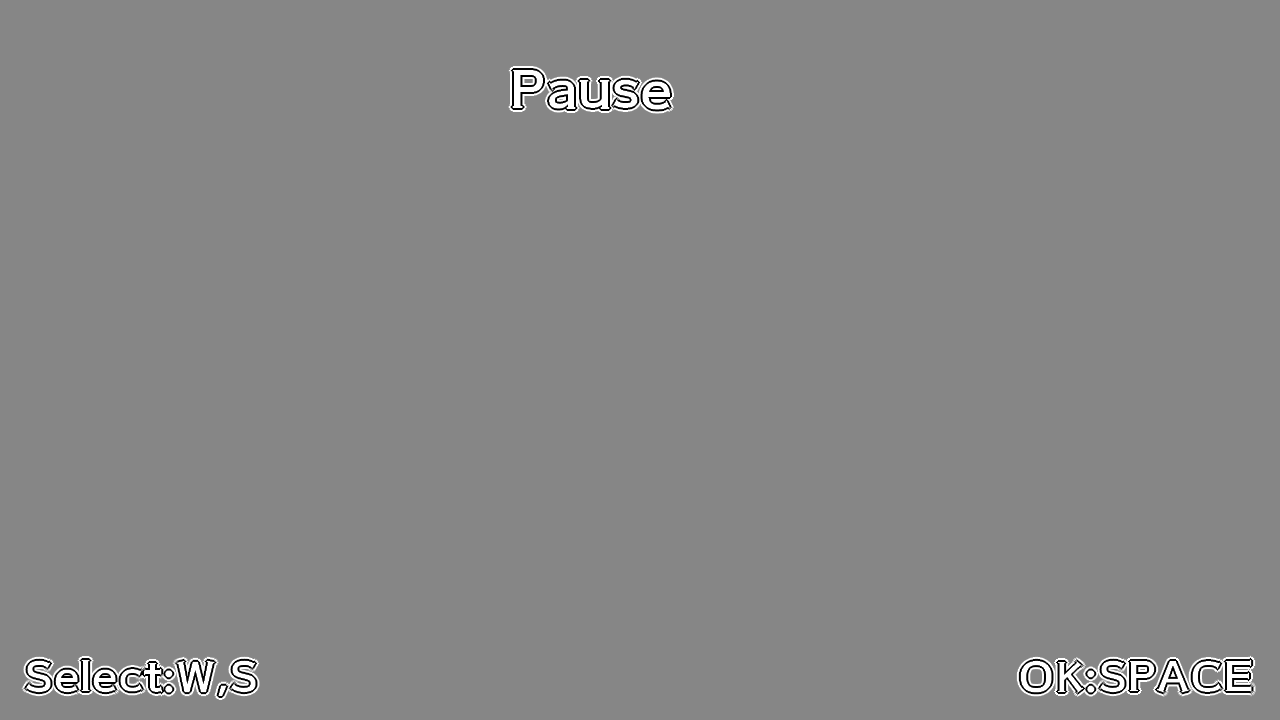
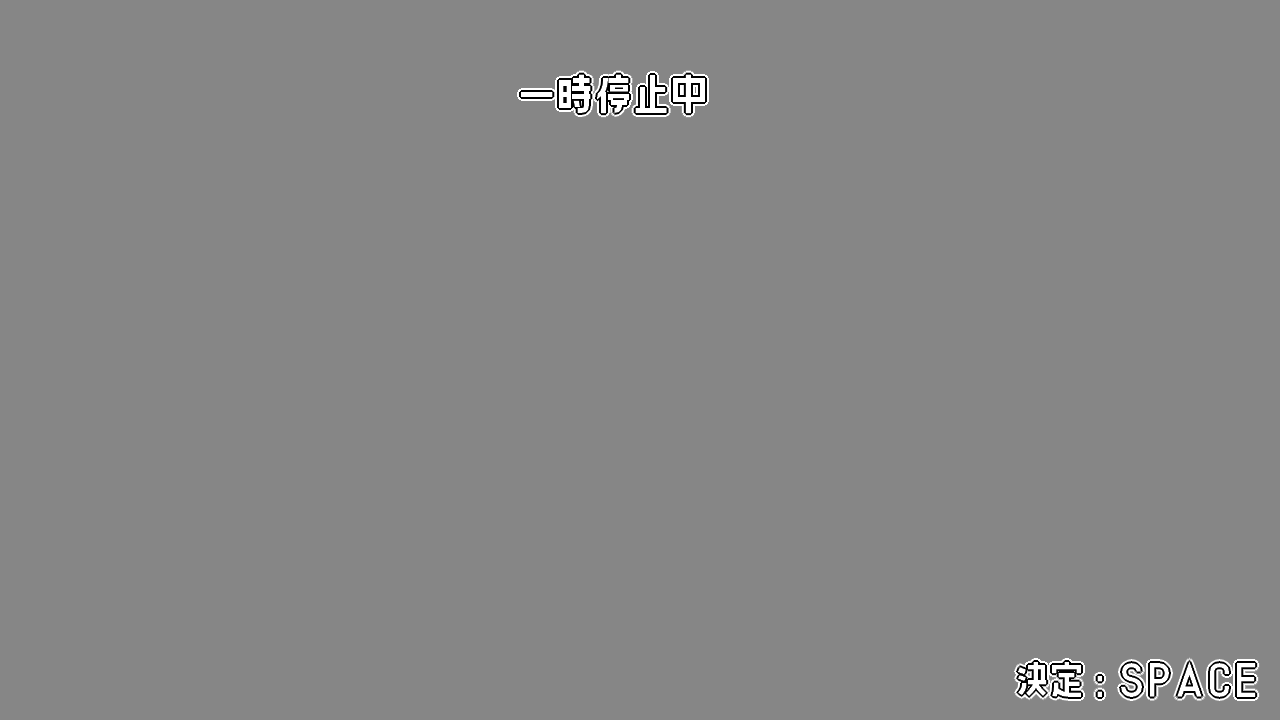
ポーズ画面変更

Changed region(s): [[0.7812, 0.8861, 1.0, 0.9778], [0.375, 0.0917, 0.5625, 0.1833], [0.0, 0.9167, 0.2188, 0.9778]]

diff --git a/DirectXGame/Engine/Rendering/UI.cpp b/DirectXGame/Engine/Rendering/UI.cpp
@@ -34,10 +34,37 @@ void UI::Initialize(::Player* player) {
 	ctrlSprite_ = Sprite::Create(textureHandle_, {5.0f, 130.0f});
 	textureHandle_ = TextureManager::Load("UI/pause.png");
 	pauseSprite_ = Sprite::Create(textureHandle_, {0.0f, 0.0f});
-	textureHandle_ = TextureManager::Load("UI/selectBack.png");
-	selectSprite_[0] = Sprite::Create(textureHandle_, {0.0f, 0.0f});
 	textureHandle_ = TextureManager::Load("UI/selectRestart.png");
-	selectSprite_[1] = Sprite::Create(textureHandle_, {0.0f, 0.0f});
+	selectSprite_[0] = Sprite::Create(textureHandle_, {0.0f, 0.0f}, {1.0f, 1.0f, 1.0f, 1.0f}, {0.5f,0.5f});
+	textureHandle_ = TextureManager::Load("UI/selectToTitle.png");
+	selectSprite_[1] = Sprite::Create(textureHandle_, {0.0f, 0.0f}, {1.0f, 1.0f, 1.0f, 1.0f}, {0.5f, 0.5f});
+	textureHandle_ = TextureManager::Load("UI/cursor1.png");
+	selectCursorSprite_[0] = Sprite::Create(textureHandle_, {0.0f, 0.0f}, {1.0f, 1.0f, 1.0f, 1.0f}, {0.5f, 0.5f});
+	textureHandle_ = TextureManager::Load("UI/cursor2.png");
+	selectCursorSprite_[1] = Sprite::Create(textureHandle_, {0.0f, 0.0f}, {1.0f, 1.0f, 1.0f, 1.0f}, {0.5f, 0.5f});
+	textureHandle_ = TextureManager::Load("UI/checkFrame.png");
+	checkFrameSprite_ = Sprite::Create(textureHandle_, {0.0f, 0.0f}, {1.0f, 1.0f, 1.0f, 1.0f}, {0.5f, 0.5f});
+	textureHandle_ = TextureManager::Load("UI/CheckSelectYes.png");
+	checkSelectSprite_[0] = Sprite::Create(textureHandle_, {0.0f, 0.0f}, {1.0f, 1.0f, 1.0f, 1.0f}, {0.5f, 0.5f});
+	textureHandle_ = TextureManager::Load("UI/CheckSelectNo.png");
+	checkSelectSprite_[1] = Sprite::Create(textureHandle_, {0.0f, 0.0f}, {1.0f, 1.0f, 1.0f, 1.0f}, {0.5f, 0.5f});
+	textureHandle_ = TextureManager::Load("UI/checkCursor1.png");
+	checkCursorSprite_[0] = Sprite::Create(textureHandle_, {0.0f, 0.0f}, {1.0f, 1.0f, 1.0f, 1.0f}, {0.5f, 0.5f});
+	textureHandle_ = TextureManager::Load("UI/checkCursor2.png");
+	checkCursorSprite_[1] = Sprite::Create(textureHandle_, {0.0f, 0.0f}, {1.0f, 1.0f, 1.0f, 1.0f}, {0.5f, 0.5f});
+	textureHandle_ = TextureManager::Load("UI/selectWS.png");
+	selectKeySprite_[0] = Sprite::Create(textureHandle_, {0.0f, 0.0f}, {1.0f, 1.0f, 1.0f, 1.0f}, {0.5f, 0.5f});
+	textureHandle_ = TextureManager::Load("UI/selectAD.png");
+	selectKeySprite_[1] = Sprite::Create(textureHandle_, {0.0f, 0.0f}, {1.0f, 1.0f, 1.0f, 1.0f}, {0.5f, 0.5f});
+
+	checkFrameSprite_->SetPosition(checkPos_);
+	for (int i = 0; i < 2; i++) {
+		selectSprite_[i]->SetPosition(selectPos_[i]);
+		selectCursorSprite_[i]->SetPosition(selectPos_[i]);
+		checkSelectSprite_[i]->SetPosition(checkPos_);
+		checkCursorSprite_[i]->SetPosition(checkPos_);
+		selectKeySprite_[i]->SetPosition({selectKeyPos_});
+	}
 }
 
 void UI::Update() {
@@ -56,11 +83,22 @@ void UI::Draw() {
 
 	if (isPaused_) {
 		pauseSprite_->Draw();
-        if (pauseSelectIndex_ == 0) {
-    		selectSprite_[0]->Draw();
-    	} else if (pauseSelectIndex_ == 1) {
-    		selectSprite_[1]->Draw();
-    	}
+		for (int i = 0; i < 2; i++) {
+			selectSprite_[i]->Draw();
+			if (i == pauseSelectIndex_) {
+				selectCursorSprite_[i]->Draw();
+			}
+		}
+
+		if (isBackTitleChecked_) {
+			checkFrameSprite_->Draw();
+			checkSelectSprite_[0]->Draw();
+		    checkSelectSprite_[1]->Draw();
+			checkCursorSprite_[checkBackTitleIndex_]->Draw();
+			selectKeySprite_[1]->Draw();
+		} else {
+			selectKeySprite_[0]->Draw();
+		}
 	}	
 
 }

diff --git a/DirectXGame/App/Scenes/GameScene.cpp b/DirectXGame/App/Scenes/GameScene.cpp
@@ -116,8 +116,11 @@ void GameScene::Update() {
 		break;
 	case GameScene::Phase::kPlay:
 		if (input_->TriggerKey(DIK_ESCAPE)) {
-			isPaused_ = !isPaused_;
-			ui_->SetPause(isPaused_);
+			if (isPaused_) {
+				ExitPause();
+			} else {
+				EnterPause();
+			}
 		}
 		// ポーズ中はUI以外の更新を止める
 		if (isPaused_) {
@@ -324,43 +327,85 @@ void GameScene::FightAnimation() {
 	// -------------------------------------
 }
 
+void GameScene::EnterPause() {
+	isPaused_ = true;
+	isBackTitleChecked_ = false;
+	pauseSelectIndex_ = 0;
+	checkBackTitleIndex_ = 1;
+
+	ui_->SetPause(true);
+	ui_->SetBackTitleCheck(false);
+}
+
+void GameScene::ExitPause() {
+	isPaused_ = false;
+	isBackTitleChecked_ = false;
+
+	ui_->SetPause(false);
+	ui_->SetBackTitleCheck(false);
+}
+
+
 void GameScene::UpdatePauseInput() {
+	if (isBackTitleChecked_) {
+		UpdateBackTitleCheckInput();
+	} else {
+		UpdatePauseMenuInput();
+	}
+}
+
+void GameScene::UpdatePauseMenuInput() {
+
 	// 上移動
 	if (input_->TriggerKey(DIK_W)) {
-		pauseSelectIndex_--;
-		if (pauseSelectIndex_ < 0) {
-			pauseSelectIndex_ = 1; // 2択なのでループ
-		}
+		pauseSelectIndex_ = (pauseSelectIndex_ + 1) % 2;
 	}
 
 	// 下移動
 	if (input_->TriggerKey(DIK_S)) {
-		pauseSelectIndex_++;
-		if (pauseSelectIndex_ > 1) {
-			pauseSelectIndex_ = 0;
+		pauseSelectIndex_ = (pauseSelectIndex_ + 1) % 2;
+	}
+
+	if (input_->TriggerKey(DIK_SPACE)) {
+		switch (pauseSelectIndex_) {
+		case 0: // 再開
+			isPaused_ = false;
+			ui_->SetPause(false);
+			break;
+
+		case 1: // タイトル
+			isBackTitleChecked_ = true;
+			checkBackTitleIndex_ = 1; // 初期は「No」
+			ui_->SetBackTitleCheck(true);
+			break;
 		}
 	}
 
-	// 決定
+	ui_->SetPauseSelectIndex(pauseSelectIndex_);
+}
+
+void GameScene::UpdateBackTitleCheckInput() {
+
+	// 左右で Yes / No 切り替え
+	if (input_->TriggerKey(DIK_A) || input_->TriggerKey(DIK_D)) {
+		checkBackTitleIndex_ = 1 - checkBackTitleIndex_;
+	}
+
 	if (input_->TriggerKey(DIK_SPACE)) {
-		switch (pauseSelectIndex_) {
-		case 0: // タイトルに戻る
+		if (checkBackTitleIndex_ == 0) {
+			// Yes → タイトルへ
 			backToTitle_ = true;
 			audio_->StopWave(bgmVoiceHandle_);
 			phase_ = Phase::kFadeOut;
 			fade_->Start(MyEngine::Fade::Status::FadeOut, fadeTime_);
-
-			break;
-
-		case 1: // ゲーム再開
-			isPaused_ = false;
-			ui_->SetPause(false);
-			break;
+		} else {
+			// No → ポーズに戻る
+			isBackTitleChecked_ = false;
+			ui_->SetBackTitleCheck(false);
 		}
 	}
 
-	// UIに現在の選択を渡す
-	ui_->SetPauseSelectIndex(pauseSelectIndex_);
+	ui_->SetCheckBackTitleIndex(checkBackTitleIndex_);
 }
 
 void GameScene::GameOver() {

diff --git a/DirectXGame/Engine/Rendering/UI.h b/DirectXGame/Engine/Rendering/UI.h
@@ -34,11 +34,16 @@ public:
 	/// <summary>
 	/// ポーズ中かを取得
 	/// </summary>
-	/// <returns></returns>
 	void SetPause(bool pause) { isPaused_ = pause; }
+
+	/// <summary>
+	/// タイトルへ本当に戻るかのチェック中かを取得
+	/// </summary>
+	void SetBackTitleCheck(bool check) { isBackTitleChecked_ = check; }
 
 	void SetPauseSelectIndex(int32_t index) { pauseSelectIndex_ = index; }
 
+	void SetCheckBackTitleIndex(int32_t index) { checkBackTitleIndex_ = index; }
 private:
 
 	/// <summary>
@@ -66,12 +71,26 @@ private:
 	KamataEngine::Sprite* ctrlSprite_ = nullptr;
 	KamataEngine::Sprite* pauseSprite_ = nullptr;
 	KamataEngine::Sprite* selectSprite_[2];
+	KamataEngine::Sprite* selectCursorSprite_[2];
+	KamataEngine::Sprite* checkFrameSprite_ = nullptr;
+	KamataEngine::Sprite* checkSelectSprite_[2];
+	KamataEngine::Sprite* checkCursorSprite_[2];
+	KamataEngine::Sprite* selectKeySprite_[2];
 
 	KamataEngine::Vector2 dashIconSize_ = {64.0f, 64.0f};
 	KamataEngine::Vector2 spIconSize = {64.0f, 64.0f};
 
 	bool isPaused_ = false;
+	bool isBackTitleChecked_ = false;
 	int32_t pauseSelectIndex_ = 0;
+	int32_t checkBackTitleIndex_ = 0;
+
+	KamataEngine::Vector2 selectPos_[2] = {
+	    {640.0f,  240.0f},
+        {640.0f, 360.0f}
+    };
+	KamataEngine::Vector2 checkPos_ = {640.0f, 330.0f};
+	KamataEngine::Vector2 selectKeyPos_ = {115.0f, 683.0f};
 
 	Player* player_ = nullptr;
 };

diff --git a/DirectXGame/App/Scenes/GameScene.h b/DirectXGame/App/Scenes/GameScene.h
@@ -75,7 +75,30 @@ private:
 	/// </summary>
 	void FightAnimation();
 
+	/// <summary>
+	/// ポーズ開始
+	/// </summary>
+	void EnterPause();
+
+	/// <summary>
+	/// ポーズ終了
+	/// </summary>
+	void ExitPause();
+
+	/// <summary>
+	/// ポーズ画面管理
+	/// </summary>
 	void UpdatePauseInput();
+
+	/// <summary>
+	/// ポーズメニュー処理
+	/// </summary>
+	void UpdatePauseMenuInput();
+
+	/// <summary>
+	/// タイトルへ戻る確認処理
+	/// </summary>
+	void UpdateBackTitleCheckInput();
 
 	/// <summary>
 	/// ゲームオーバー時の演出
@@ -203,7 +226,9 @@ private:
 
 	/// --- ポーズ処理　---
 	bool isPaused_ = false;
+	bool isBackTitleChecked_ = false;
 	int32_t pauseSelectIndex_ = 0;
+	int32_t checkBackTitleIndex_ = 1;
 	bool backToTitle_ = false;
 
 	nlohmann::json enemySpawnData_;
